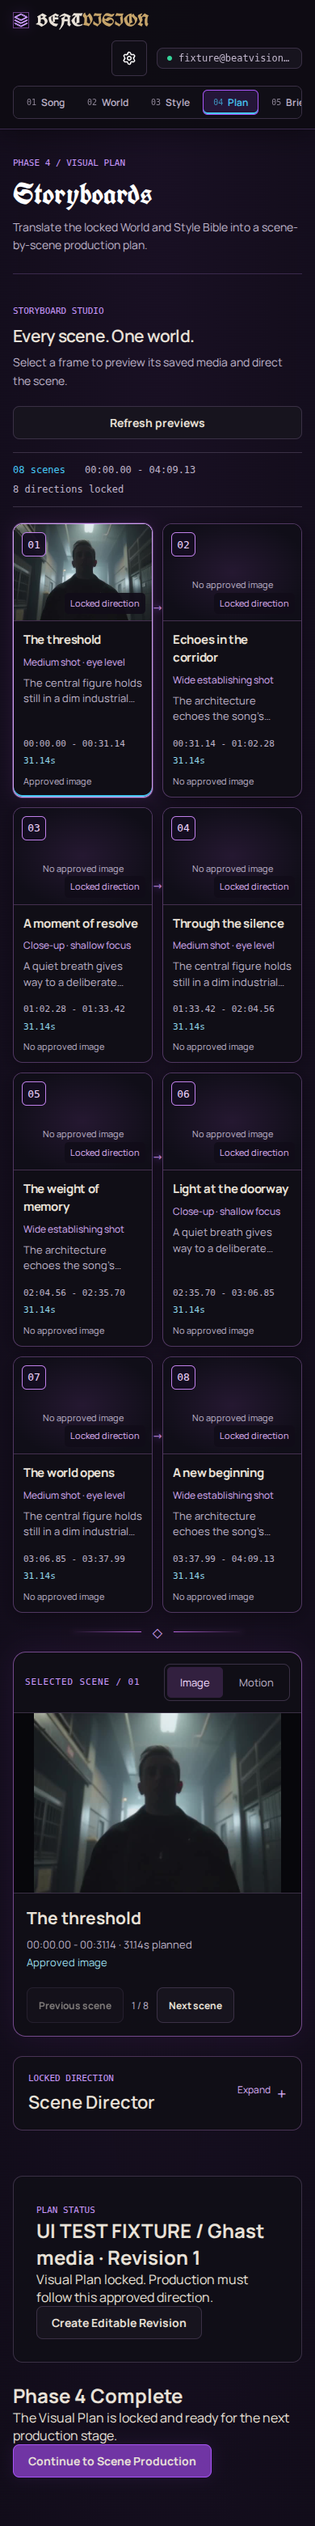
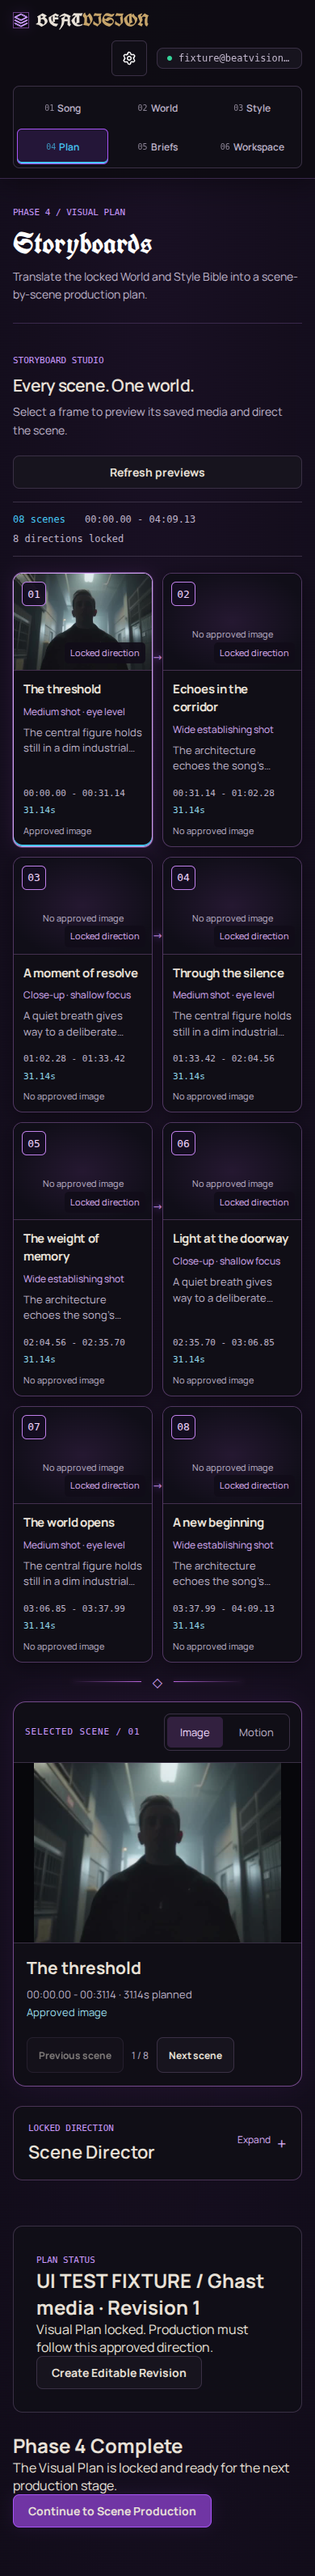
Keep all Arcane mobile workflow stages visible with accessible touch targets
Wrap six stage controls into two rows with 44px targets; refresh editable
Figma and browser evidence. Full 293 tests + 6 integration checks, TypeScript,
build/audit and Chromium desktop/mobile/media suite pass. Classic unchanged.

diff --git a/src/theme/arcane.css b/src/theme/arcane.css
@@ -168,6 +168,8 @@
 @media (max-width: 700px) {
   :root[data-theme='arcane'] .studio-topbar-left { min-width: max-content; }
   :root[data-theme='arcane'] .studio-topbar-right { max-width: 100%; margin-left: auto; }
+  :root[data-theme='arcane'] .studio-pipeline-nav { display: grid; grid-template-columns: repeat(3, minmax(0, 1fr)); overflow: visible; }
+  :root[data-theme='arcane'] .pipeline-step { min-width: 0; min-height: 44px; justify-content: center; padding: 6px 4px; gap: 4px; }
   .arcane-director-layout { grid-template-columns: minmax(0, 1fr); }
   .appearance-dialog { padding: 18px; }
   .appearance-options { gap: 12px; }

diff --git a/docs/arcane-cinema/README.md b/docs/arcane-cinema/README.md
@@ -45,7 +45,7 @@ Baseline checkout: `feature/arcane-cinema-theme` at `9a1088321b713c733f602214384
 
 Three storyboard acceptance regressions first failed against the old board, then passed. A fourth regression reproduced an expired approved thumbnail hiding a separate production candidate and verifies the fix plus honest failure state.
 
-Real Chromium verified 1440/768/390/360/320px without document or main-content horizontal overflow; sequence navigation; keyboard End; locked editor review/focus; Appearance switching and reload persistence; OS reduced motion; unsaved draft preservation; exactly one intercepted draft-save update; honest empty/broken/read-error states. Production at 1440/390px also verified shared scene selection, Director focus and existing controls without creative writes. The existing pipeline navigation retains its contained horizontal scroller on narrow screens.
+Real Chromium verified 1440/768/390/360/320px without document or main-content horizontal overflow; sequence navigation; keyboard End; locked editor review/focus; Appearance switching and reload persistence; OS reduced motion; unsaved draft preservation; exactly one intercepted draft-save update; honest empty/broken/read-error states. Production at 1440/390px also verified shared scene selection, Director focus and existing controls without creative writes. Arcane's mobile pipeline wraps into two rows: all six stage buttons stay fully visible with 44px targets. Classic retains its original navigation.
 
 Classic's original 1440px screenshot and candidate screenshot have the same dimensions and **zero changed RGB pixels**. The retained `classic-before-desktop.png` was captured from the pre-change build before `dist` was replaced. The browser script supports `ARCANE_BASELINE_URL` for an independently served baseline or `ARCANE_REUSE_BASELINE=1` to compare against that retained capture.
 
@@ -72,3 +72,5 @@ GitHub Actions all succeeded for that exact commit: Production CI [38737019692](
 Vercel protects preview URLs with its existing authentication setting. Using the connected deployment tool's temporary share access, the actual deployed app rendered in the browser. Appearance changed to Arcane, its radio selection and `html[data-theme="arcane"]` were verified, and reload retained it. The signed-out landing page truthfully reports missing BeatVision auth; no account or production credentials were entered. Live authenticated storyboard/media and real-account preference sync are still UNVERIFIED. Main remains `f2e1375`; the production domain still resolves to separate deployment `dpl_3BKMriaiWYF44CJ3qBeqviSpgXnW` / `a02f746`, not this preview.
 
 An independent read-only review was sent to the same existing Jules session for `4af36dc`; no candidate review result has been accepted. This publication record is a documentation-only follow-up to the previewed implementation.
+
+Final mobile follow-up: all six Arcane workflow stages now wrap into two rows with 44px targets instead of a clipped horizontal strip. Figma mobile and implementation captures are refreshed. Browser bounds/text-containment checks pass at390/360/320px, and the full293 tests,6 integration checks, TypeScript/build, audit and browser suite were rerun successfully. Classic still has zero changed pixels. The preview above documents the initial reconstruction; PR #108's current description links the latest preview including this correction.

diff --git a/PROJECT_LOG.md b/PROJECT_LOG.md
@@ -1155,3 +1155,5 @@ See `docs/arcane-cinema/README.md` for commands, before/after captures, design I
 Publication: implementation `4af36dca8e575772079743ca74a93ba1fa62d9e3` / tree `e2bbb877b1530131e9daec35a0630131dc1cd206` is on the existing feature branch. Local git push lacked HTTPS credentials; the connected GitHub app published 27 matching blobs and an identical tested tree, then advanced the ref with expected-head validation and no force. Production CI38737019692, enqueue-security38737020168, storage-security38737019730 and migration-replay38737019807 all SUCCESS for that exact SHA.
 
 Requested preview only: `https://beat-vision-g5oaxy4eu-beat-vision.vercel.app/`, deployment `dpl_2rgEGfUN21QHkC4R9YPwxX8HoWjg`, READY/Vite/targetnull, existing Hobby project `prj_uY6UsWukCvImpUbyaaHG7EGFF2Cq`. Remote logs confirm exact clone4af36dc and build/deployment success. Browser inspection through ordinary temporary Vercel share access verified the deployed app, Arcane radio/root theme and reload persistence. No BeatVision auth session exists in this browser, so live creator media and account sync remain UNVERIFIED. Existing preview protection retained. No production promotion/alias: theta domain still serves deployment `dpl_3BKMriaiWYF44CJ3qBeqviSpgXnW` / a02f746; main remains f2e1375. Sent a read-only candidate review to the same Jules session; independent result pending, not claimed. Publication log is documentation-only after the previewed implementation.
+
+Final mobile inspection correction: inherited pipeline navigation required horizontal scrolling to expose later stages. Arcane-only mobile navigation now wraps all six stages into two rows with 44px targets. Added actual-browser checks for each button's visible bounds, internal text containment and non-scrolling navigation at390/360/320px; all PASS. Updated editable Figma mobile navigation and captures. Re-ran complete293 tests,6 integration tests, TypeScript/Vite build, production audit, Classic zero-pixel comparison and all storyboard/production/media browser checks: exit0. No Classic or backend change. The first preview above precedes this mobile correction; the current PR description carries the latest preview publication.
